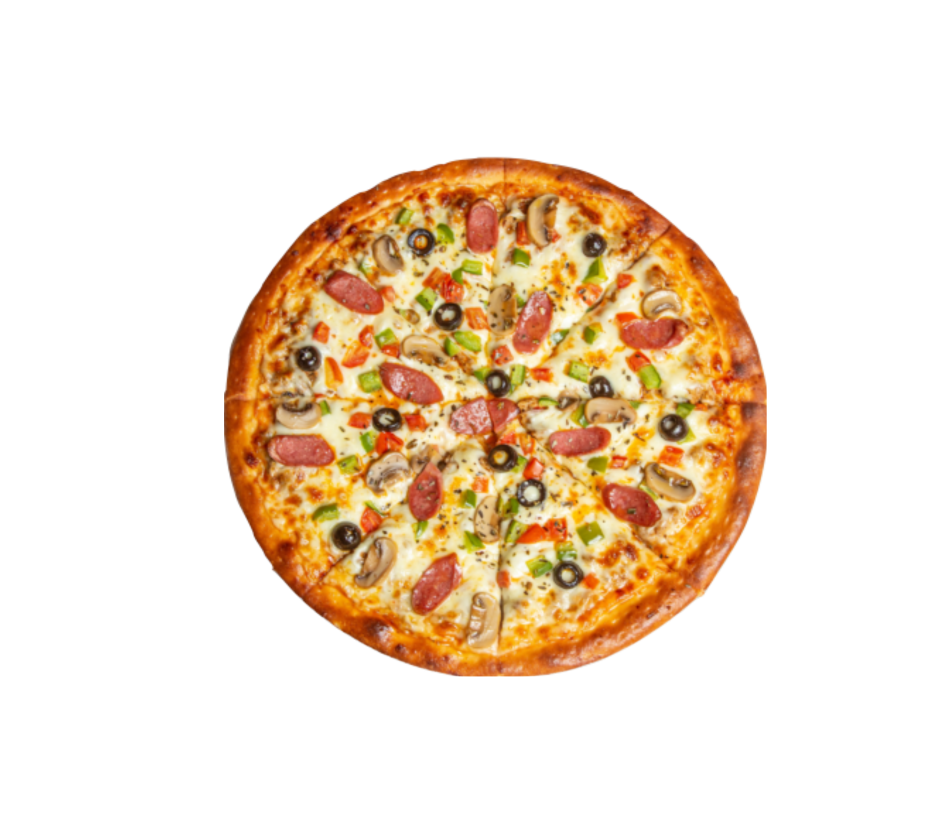
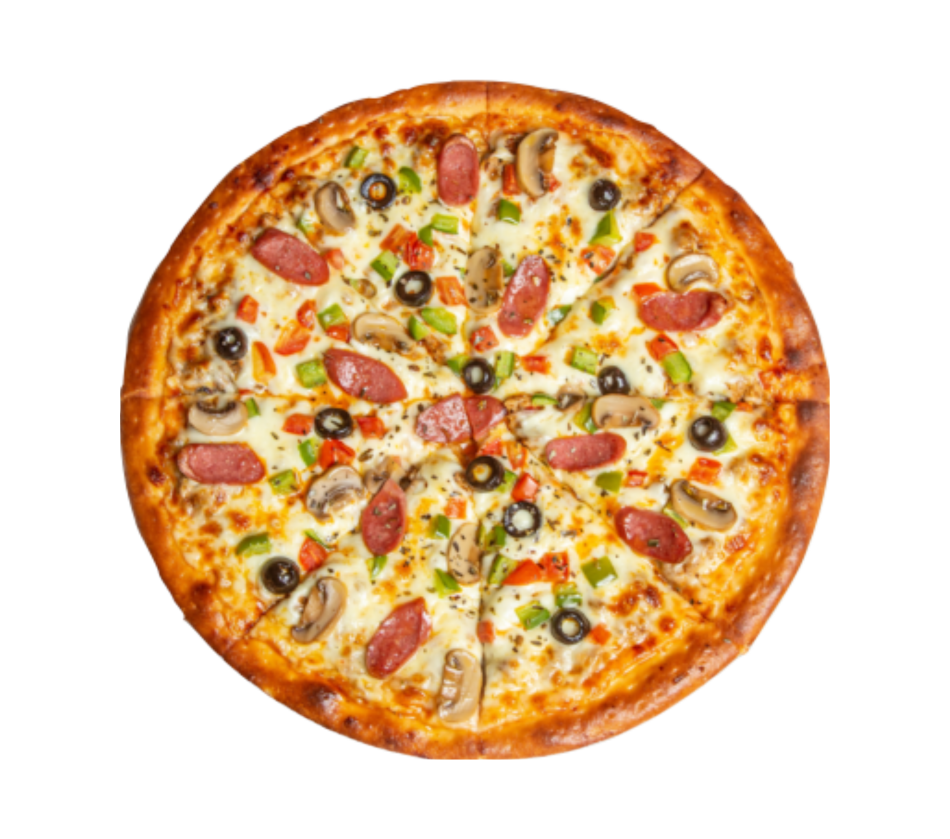
modify media queries - footer, navBar, cart...

diff --git a/styles/Cart.module.css b/styles/Cart.module.css
@@ -50,17 +50,24 @@
 }
 
 .button {
-  height: 30px;
+  height: 40px;
   color: #dd3939;
   font-weight: bold;
   cursor: pointer;
   margin-top: 20px;
 }
 
-@media screen and (max-width: 480px) {
+@media screen and (max-width: 833px) {
+  .left {
+    flex: 1;
+    margin-left: -60px;
+  }
+}
+
+@media screen and (max-width: 780px) {
   .container {
     flex-direction: column;
-    padding: 20px;
+    /* padding: 20px; */
   }
 
   .table {
@@ -68,6 +75,7 @@
     flex-direction: column;
     align-items: center;
     justify-content: center;
+    margin-left: 30px;
   }
 
   .trTitle {
@@ -83,8 +91,8 @@
   }
 
   .imageContainer {
-    width: 35vw;
-    height: 35vw;
+    width: 45vw;
+    height: 45vw;
   }
 
   .name,
@@ -110,8 +118,34 @@
     content: "Total: ";
     font-weight: 500;
   }
+  .right {
+    display: flex;
+    justify-content: center;
+  }
+  .wrapper {
+    width: 80%;
+  }
+
+  .button {
+    width: max-content;
+    margin-right: auto;
+    margin-left: auto;
+  }
+}
+
+@media screen and (max-width: 480px) {
+  .name,
+  .total {
+    font-size: 18px;
+  }
+
+  .extras,
+  .price,
+  .quantity {
+    font-size: 17px;
+  }
 
   .wrapper {
-    width: 100%;
+    width: max-content;
   }
 }

diff --git a/pages/Cart/index.js b/pages/Cart/index.js
@@ -17,7 +17,7 @@ const Cart = () => {
             <td>
               <div className={classes.imageContainer}>
                 <Image
-                  src="/images/pizza.png"
+                  src="/images/pizza_select.png"
                   layout="fill"
                   objectFit="cover"
                   alt="pizza"
@@ -46,7 +46,7 @@ const Cart = () => {
             <td>
               <div className={classes.imageContainer}>
                 <Image
-                  src="/images/pizza.png"
+                  src="/images/pizza_select.png"
                   layout="fill"
                   objectFit="cover"
                   alt="pizza"

diff --git a/components/layout/footer.js b/components/layout/footer.js
@@ -7,8 +7,6 @@ const Footer = () => {
         <Image
           src="/images/background-image.png"
           alt="background photo"
-          // width="300px"
-          // height="300px"
           layout="fill"
           objectFit="cover"
         />
@@ -16,7 +14,7 @@ const Footer = () => {
       <div className={classes.item}>
         <div className={classes.card}>
           <h2 className={classes.motto}>
-            PIZZARACK PIZZAS - MADE JUST FOR YOU
+            PIZZA RACK PIZZAS - MADE JUST FOR YOU
           </h2>
         </div>
         <div className={classes.card}>

diff --git a/styles/product.module.css b/styles/product.module.css
@@ -18,7 +18,7 @@
 
 .imageContainer {
   width: 80%;
-  height: 80%;
+  height: 60%;
 }
 
 .price {
@@ -80,7 +80,7 @@
 }
 .quantity {
   width: 50px;
-  height: 20px;
+  height: 25px;
 }
 
 .button {
@@ -92,7 +92,7 @@
   cursor: pointer;
 }
 
-@media screen and (max-width: 480px) {
+@media screen and (max-width: 750px) {
   .container {
     height: auto;
     text-align: center;
@@ -132,5 +132,14 @@
   .button {
     height: 50px;
     padding: 10px 20px;
+  }
+}
+
+@media screen and (min-height: 1000px) {
+  .container {
+    height: 60vh;
+  }
+  .left {
+    height: 60%;
   }
 }

diff --git a/styles/order.module.css b/styles/order.module.css
@@ -81,7 +81,7 @@
   cursor: not-allowed;
 }
 
-@media screen and (max-width: 480px) {
+@media screen and (max-width: 575px) {
   .container {
     flex-direction: column;
   }
@@ -130,5 +130,25 @@
 
   .wrapper {
     width: 100%;
+  }
+
+  .button {
+    width: 100px;
+    margin-right: auto;
+    margin-left: auto;
+  }
+
+  @media screen and (max-width: 480px) {
+    .wrapper {
+      width: max-content;
+      margin-right: auto;
+      margin-left: auto;
+    }
+  }
+}
+
+@media screen and (max-width: 333px) {
+  .container {
+    padding: 10px 0px;
   }
 }

diff --git a/pages/product/[id].js b/pages/product/[id].js
@@ -6,7 +6,7 @@ const Product = () => {
   const [size, setSize] = useState(0);
   const pizza = {
     id: 1,
-    img: "/images/pizza.png",
+    img: "/images/pizza_select.png",
     name: "CAMPAGNOLA",
     price: [19.9, 23.9, 27.9],
     desc: "Lorem ipsum dolor sit amet, consectetur adipiscing elit. Duis arcu purus, rhoncus fringilla vestibulum vel, dignissim vel ante. Nulla facilisi. Nullam a urna sit amet tellus pellentesque egestas in in ante.",

diff --git a/components/layout/nav-bar.module.css b/components/layout/nav-bar.module.css
@@ -13,15 +13,15 @@
 }
 
 .item {
-  flex: 2;
+  flex: 1;
   display: flex;
   align-items: center;
   color: white;
 }
-.item:first-child {
-  /* justify-content: flex-start; */
+/* .item:first-child {
+  
   margin-right: 20px;
-}
+} */
 .item:nth-child(2) {
   flex: 2;
   justify-content: center;

diff --git a/components/layout/footer.module.css b/components/layout/footer.module.css
@@ -19,7 +19,8 @@
 
 .card {
   flex: 1;
-  padding: 0 20px;
+  /* padding: 0 20px; */
+  padding-right: 14px;
 }
 
 .title {
@@ -44,6 +45,10 @@
 
   .item {
     flex-direction: column;
+  }
+
+  .item:last-child {
+    padding: 0;
   }
 
   .title {
